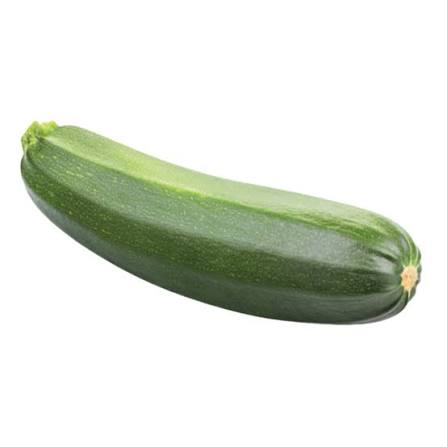
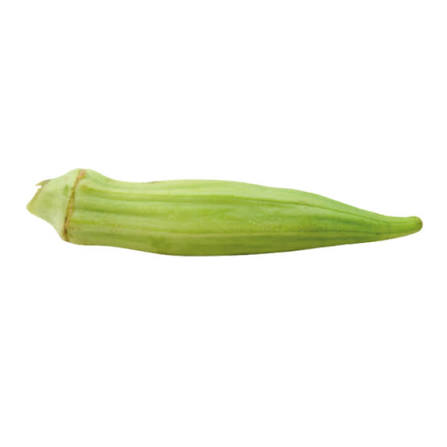
Finish website
Finish making the website. Added title, github username, and a button that leads to my github.

Changed region(s): [[0.0291, 0.2617, 0.9597, 0.7271]]

diff --git a/index.html b/index.html
@@ -5,41 +5,46 @@
         <link rel="stylesheet" href="styles.css">
     </head>
     <body style="background-color: #425361;">
+        <p style="font-size: 50px; color: white; margin-top: 0; margin-bottom: 0;">Veggie Tierlist</p>
+        <p style="margin-top: 0; margin-bottom: 0; color: white; font-size: 15px;">by occult-frog</p>
+        <a class="github_button" href="https://github.com/occult-frog">My Github</a>
+        <div style="height: 100px;"></div>
         <div class="tier-row">
             <div class="tier-letter" style="background-color: #E05534;">S</div>
-            <img src="images/potato.jpg" width="100px" height="100px">
-            <img src="images/garlic.jpg" width="100px" height="100px">
-            <img src="images/onion.jpg" width="100px" height="100px">
+            <img src="images/potato.jpg" width="100px" height="100px" title="Potato">
+            <img src="images/garlic.jpg" width="100px" height="100px" title="Garlic">
+            <img src="images/onion.jpg" width="100px" height="100px" title="Onion">
         </div>
         <div class="tier-row">
             <div class="tier-letter" style="background-color: #F2AA48;">A</div>
-            <img src="images/lettuce.jpg" width="100px" height="100px">
-            <img src="images/tomato.jpg" width="100px" height="100px">
-            <img src="images/beans.jpg" width="100px" height="100px">
-            <img src="images/sweet_potato.jpg" width="100px" height="100px">
-            <img src="images/ginger.jpg" width="100px" height="100px">
-            <img src="images/scallion.jpg" width="100px" height="100px">
+            <img src="images/lettuce.jpg" width="100px" height="100px" title="Lettuce">
+            <img src="images/tomato.jpg" width="100px" height="100px" title="Tomato">
+            <img src="images/beans.jpg" width="100px" height="100px" title="Beans">
+            <img src="images/sweet_potato.jpg" width="100px" height="100px" title="Sweet Potato">
+            <img src="images/ginger.jpg" width="100px" height="100px" title="Ginger">
+            <img src="images/scallion.jpg" width="100px" height="100px" title="Scallion">
         </div>
         <div class="tier-row">
             <div class="tier-letter" style="background-color: #F7CF51;">B</div>
-            <img src="images/cucumber.jpg" width="100px" height="100px">
-            <img src="images/carrot.jpg" width="100px" height="100px">
-            <img src="images/peas.jpg" width="100px" height="100px">
-            <img src="images/radish.jpg" width="100px" height="100px">
-            <img src="images/okra.jpg" width="100px" height="100px">
+            <img src="images/cucumber.jpg" width="100px" height="100px" title="Cucumber">
+            <img src="images/carrot.jpg" width="100px" height="100px" title="Carrot">
+            <img src="images/peas.jpg" width="100px" height="100px" title="Peas">
+            <img src="images/radish.jpg" width="100px" height="100px" title="Radish">
+            <img src="images/okra.jpg" width="100px" height="100px" title="Okra">
         </div>
         <div class="tier-row">
             <div class="tier-letter" style="background-color: #50AB64;">C</div>
-            <img src="images/pumpkin.jpg" width="100px" height="100px">
-            <img src="images/beets.jpg" width="100px" height="100px">
-            <img src="images/spinach.jpg" width="100px" height="100px">
-            <img src="images/zucchini.jpg" width="100px" height="100px">
+            <img src="images/pumpkin.jpg" width="100px" height="100px" title="Pumpkin">
+            <img src="images/beets.jpg" width="100px" height="100px" title="Beets">
+            <img src="images/spinach.jpg" width="100px" height="100px" title="Spinach">
+            <img src="images/zucchini.jpg" width="100px" height="100px" title="Zucchini">
         </div>
         <div class="tier-row">
             <div class="tier-letter" style="background-color: #4597F7;">D</div>
-            <img src="images/broccoli.jpg" width="100px" height="100px">
-            <img src="images/cauliflower.jpg" width="100px" height="100px">
-            <img src="images/aubergine.jpg" width="100px" height="100px">
+            <img src="images/broccoli.jpg" width="100px" height="100px" title="Broccoli">
+            <img src="images/cauliflower.jpg" width="100px" height="100px" title="Cauliflower">
+            <img src="images/aubergine.jpg" width="100px" height="100px" title="Aubergine">
         </div>
+        <div style="height: 100px;"></div>
     </body>
 </html>

diff --git a/styles.css b/styles.css
@@ -7,6 +7,7 @@
     padding: 2px;
 }
 .tier-letter {
+    display: flex;
     width: 100px;
     height: 100px;
     font-size: 50px;
@@ -14,4 +15,25 @@
     vertical-align: middle;
     justify-content: center;
     align-items: center;
+}
+.github_button {
+    display: flex;
+    width: 11ch;
+    height: 4ch;
+    background-color: #0c471c;
+    color: white;
+    margin-top: 0;
+    margin-bottom: 0;
+    text-align: center;
+    font-size: 15px;
+    border-radius: 3px;
+    text-align: center;
+    vertical-align: middle;
+    justify-content: center;
+    align-items: center;
+    text-decoration: none;
+    transition: background-color 0.2s ease-in-out;
+}
+.github_button:hover {
+    background-color: #175728;
 }